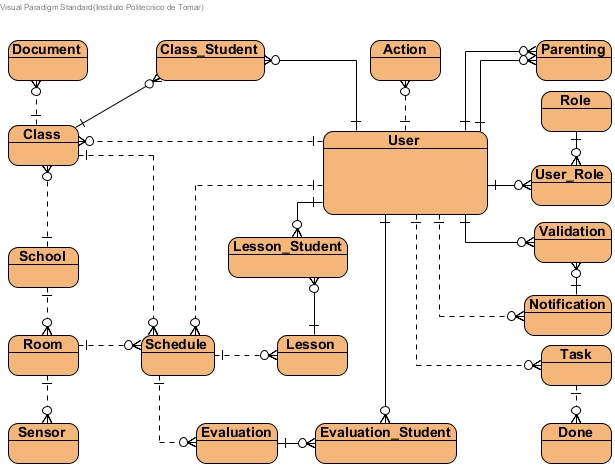
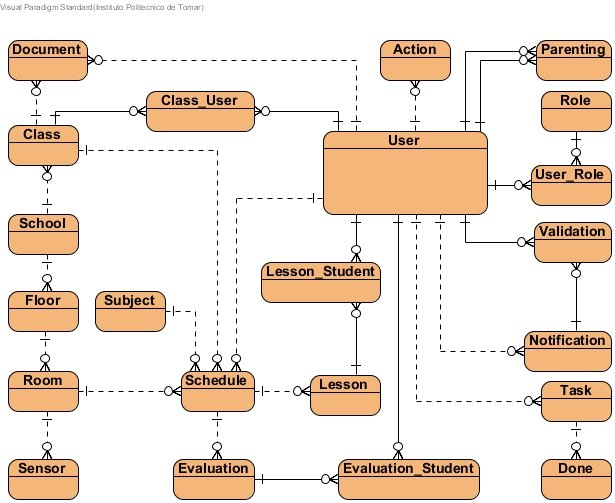
Sensores database reformulation

diff --git a/API/CQPROJ.Data.DB/Models/DBContextModel.cs b/API/CQPROJ.Data.DB/Models/DBContextModel.cs
@@ -19,6 +19,7 @@ namespace CQPROJ.Data.DB.Models
         public virtual DbSet<TblDone> TblDone { get; set; }
         public virtual DbSet<TblEvaluations> TblEvaluations { get; set; }
         public virtual DbSet<TblEvaluationStudents> TblEvaluationStudents { get; set; }
+        public virtual DbSet<TblFloors> TblFloors { get; set; }
         public virtual DbSet<TblLessons> TblLessons { get; set; }
         public virtual DbSet<TblLessonStudents> TblLessonStudents { get; set; }
         public virtual DbSet<TblNotifications> TblNotifications { get; set; }
@@ -28,6 +29,7 @@ namespace CQPROJ.Data.DB.Models
         public virtual DbSet<TblSchedules> TblSchedules { get; set; }
         public virtual DbSet<TblSchools> TblSchools { get; set; }
         public virtual DbSet<TblSensors> TblSensors { get; set; }
+        public virtual DbSet<TblSubjects> TblSubjects { get; set; }
         public virtual DbSet<TblTasks> TblTasks { get; set; }
         public virtual DbSet<TblUserRoles> TblUserRoles { get; set; }
         public virtual DbSet<TblUsers> TblUsers { get; set; }

diff --git a/API/CQPROJ.Data.DB/Models/TblFloors.cs b/API/CQPROJ.Data.DB/Models/TblFloors.cs
@@ -6,12 +6,14 @@ namespace CQPROJ.Data.DB.Models
     using System.ComponentModel.DataAnnotations.Schema;
     using System.Data.Entity.Spatial;
 
-    public partial class TblRooms
+    public partial class TblFloors
     {
         public int ID { get; set; }
 
         public string Name { get; set; }
 
-        public int? FloorFK { get; set; }
+        public string Image { get; set; }
+
+        public int? SchoolFK { get; set; }
     }
 }

diff --git a/API/CQPROJ.Data.DB/Models/TblSchedules.cs b/API/CQPROJ.Data.DB/Models/TblSchedules.cs
@@ -10,13 +10,13 @@ namespace CQPROJ.Data.DB.Models
     {
         public int ID { get; set; }
 
-        public string Subject { get; set; }
-
         public int? StartingTime { get; set; }
 
         public int? Duration { get; set; }
 
         public int? DayOfWeek { get; set; }
+
+        public int? SubjectFK { get; set; }
 
         public int? TeacherFK { get; set; }
 

diff --git a/API/CQPROJ.Data.DB/Models/TblSubjects.cs b/API/CQPROJ.Data.DB/Models/TblSubjects.cs
@@ -6,12 +6,10 @@ namespace CQPROJ.Data.DB.Models
     using System.ComponentModel.DataAnnotations.Schema;
     using System.Data.Entity.Spatial;
 
-    public partial class TblRooms
+    public partial class TblSubjects
     {
         public int ID { get; set; }
 
         public string Name { get; set; }
-
-        public int? FloorFK { get; set; }
     }
 }
